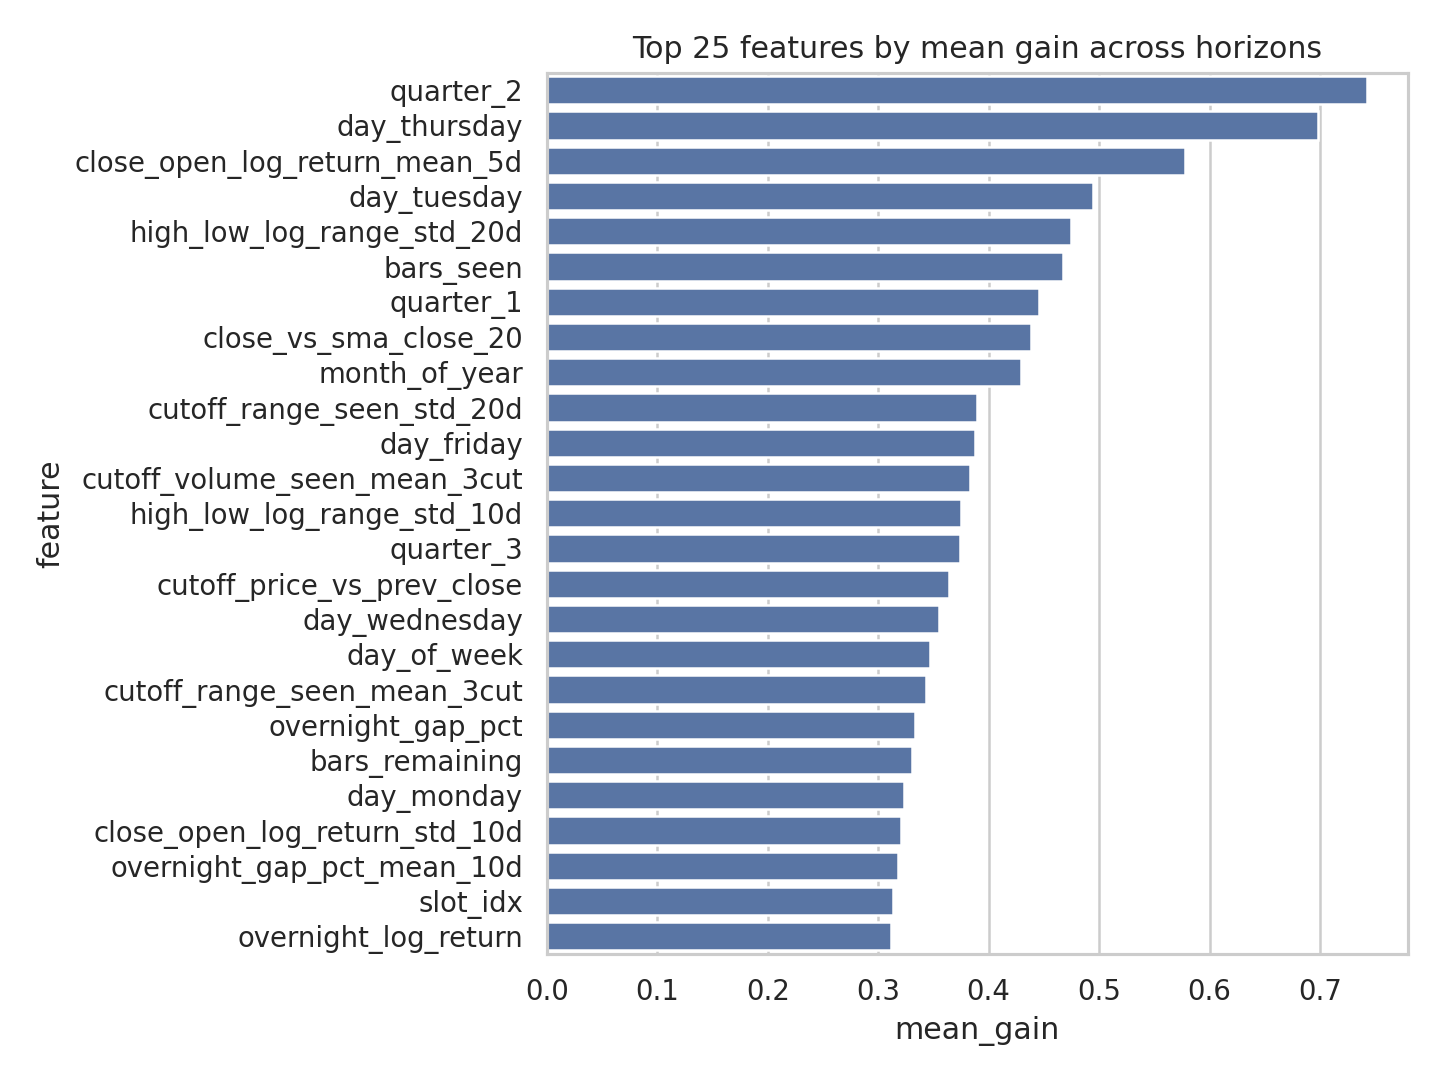
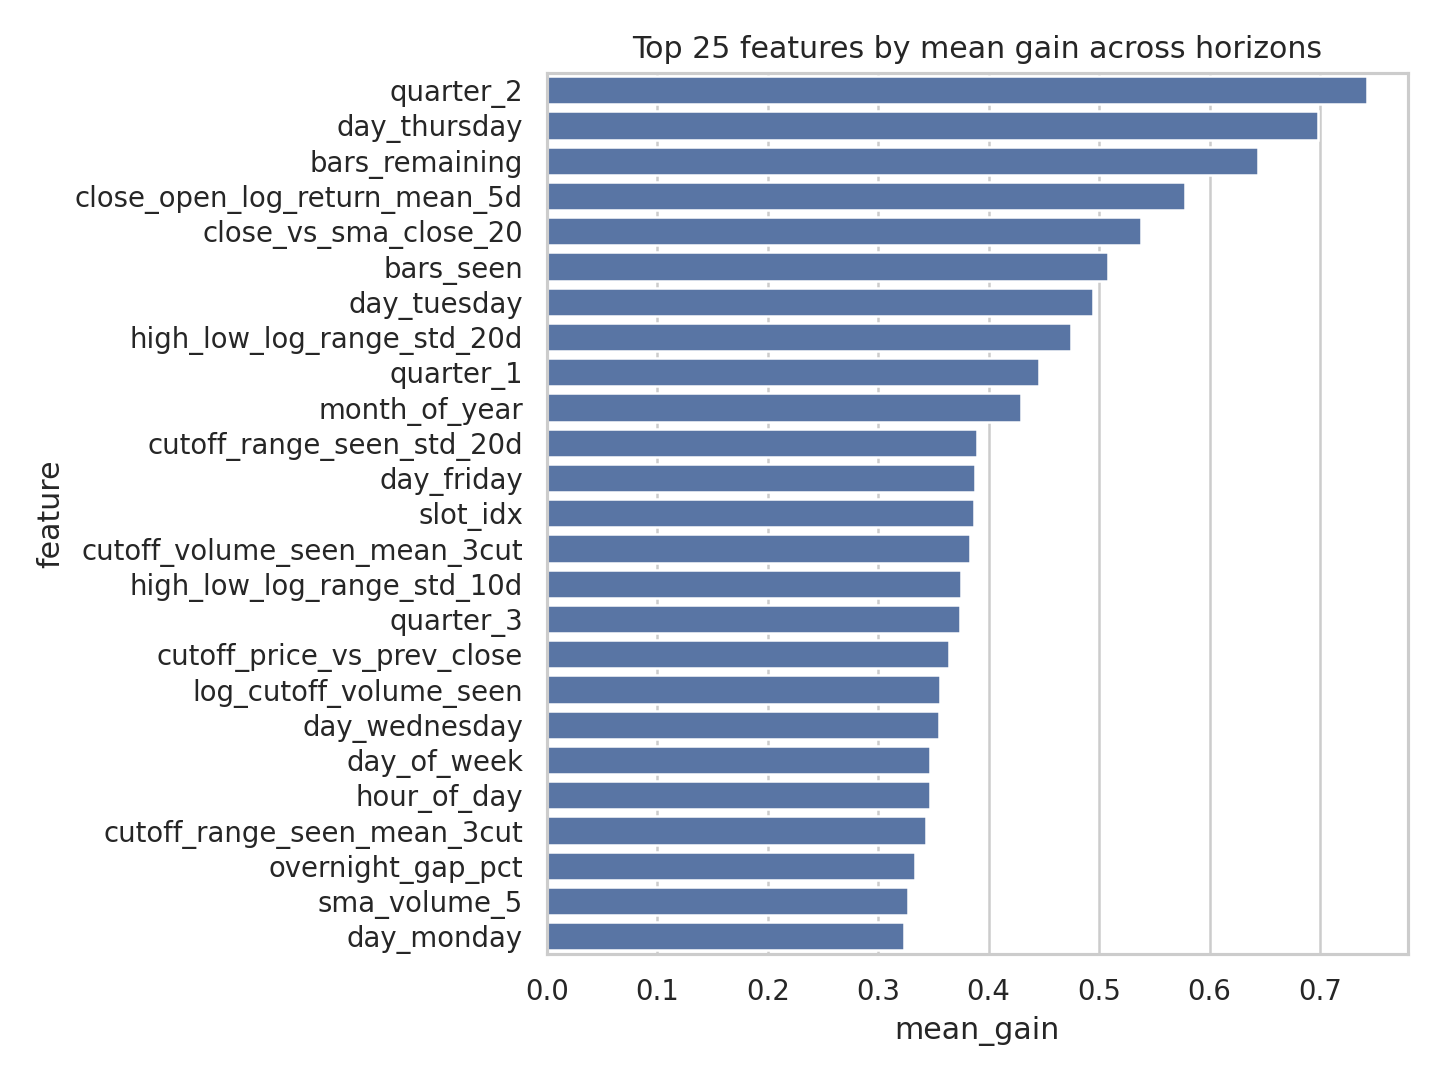
feat: update model metadata for base variant and enhance frontend prediction charts with detailed metadata annotations

diff --git a/services/frontend/app.py b/services/frontend/app.py
@@ -2,7 +2,8 @@ from __future__ import annotations
 
 import math
 import os
-from datetime import UTC, datetime
+import re
+from datetime import UTC, datetime, timedelta, timezone
 
 import pandas as pd
 import plotly.graph_objects as go
@@ -128,6 +129,48 @@ def ohlc_df(symbol: str, days: int) -> pd.DataFrame:
     return df.sort_values("date").reset_index(drop=True)
 
 
+def _prediction_meta(pred: dict) -> dict:
+    """
+    Parse a prediction response into human-readable label parts.
+
+    Returns a dict with:
+      cutoff     — "Apr 20"  (training data cutoff date)
+      trained_at — "10:45 PM PDT Apr 27"  (when base model was trained)
+      updated_at — "8:25 AM PDT"  (when warm refresh last ran, or trained_at for base)
+      version    — raw model_version string
+    """
+    version = pred.get("model_version", "")
+    cutoff = trained_at = updated_at = ""
+
+    # model_version format: "base_YYYYMMDD_YYYYMMDDTHHMMSSz"
+    m = re.match(r"[^_]+_(\d{8})_(\d{8}T\d{6}Z)", version)
+    if m:
+        try:
+            cutoff = datetime.strptime(m.group(1), "%Y%m%d").strftime("%b %-d, %Y")
+        except ValueError:
+            cutoff = m.group(1)
+        try:
+            ts_utc = datetime.strptime(m.group(2), "%Y%m%dT%H%M%SZ").replace(tzinfo=timezone.utc)
+            ts_pdt = ts_utc.astimezone(timezone(timedelta(hours=-7)))
+            trained_at = ts_pdt.strftime("%-I:%M %p PDT, %b %-d")
+        except ValueError:
+            trained_at = m.group(2)
+
+    # warm predictions may carry a refreshed_at timestamp
+    raw_refresh = pred.get("refreshed_at") or pred.get("warm_refreshed_at") or pred.get("as_of")
+    if raw_refresh:
+        try:
+            rt = datetime.fromisoformat(raw_refresh.replace("Z", "+00:00"))
+            rt_pdt = rt.astimezone(timezone(timedelta(hours=-7)))
+            updated_at = rt_pdt.strftime("%-I:%M %p PDT")
+        except Exception:
+            updated_at = raw_refresh[:16]
+    else:
+        updated_at = trained_at
+
+    return {"cutoff": cutoff, "trained_at": trained_at, "updated_at": updated_at, "version": version}
+
+
 # ── Chart builders ────────────────────────────────────────────────────────────
 
 def build_price_chart(df: pd.DataFrame, title: str, base_prediction: dict | None = None, warm_prediction: dict | None = None) -> go.Figure:
@@ -160,21 +203,31 @@ def build_price_chart(df: pd.DataFrame, title: str, base_prediction: dict | None
         path = base_prediction.get("path", [])
         bp_date = base_prediction.get("prediction_date", "")[:10]
         if path and bp_date:
+            meta = _prediction_meta(base_prediction)
+            trace_name = (
+                f"Base EOD Forecast  ·  trained thru {meta['cutoff']}"
+                f"  ·  model built {meta['trained_at']}"
+                f"  ·  fixed at market open"
+            )
             path_x = [f"{bp_date} {b['bar_time']}" for b in path]
             path_y = [b["pred_close"] for b in path]
             fig.add_trace(go.Scatter(
                 x=path_x, y=path_y,
-                mode="lines+markers", name="Base EOD Prediction",
+                mode="lines+markers", name=trace_name,
                 line={"color": "#f59e0b", "width": 2, "dash": "dot"},
                 marker={"size": 4, "color": "#f59e0b"},
             ))
             end_price = path_y[-1]
+            ret = base_prediction.get("predicted_full_day_return", 0.0)
+            direction = "▲" if base_prediction.get("predicted_direction") == "up" else "▼"
             fig.add_annotation(
                 x=path_x[-1], y=end_price,
-                text=f"Base EOD ${end_price:.2f}",
-                showarrow=True, arrowhead=2, ax=32, ay=-40,
-                bgcolor="rgba(245,158,11,0.12)", bordercolor="#f59e0b",
+                text=f"<b>Base EOD</b>  ${end_price:.2f}<br>"
+                     f"{direction} {ret:+.2f}%  ·  thru {meta['cutoff']}",
+                showarrow=True, arrowhead=2, ax=40, ay=-44,
+                bgcolor="rgba(245,158,11,0.13)", bordercolor="#f59e0b",
                 font={"size": 11, "color": "#92400e"},
+                align="left",
             )
 
     # Warm refresh prediction — blue dashed (updates every 15 min)
@@ -182,21 +235,31 @@ def build_price_chart(df: pd.DataFrame, title: str, base_prediction: dict | None
         path = warm_prediction.get("path", [])
         wp_date = warm_prediction.get("prediction_date", "")[:10]
         if path and wp_date:
+            meta = _prediction_meta(warm_prediction)
+            trace_name = (
+                f"Warm Intraday Forecast  ·  trained thru {meta['cutoff']}"
+                f"  ·  last refreshed {meta['updated_at']}"
+                f"  ·  updates every 15 min"
+            )
             path_x = [f"{wp_date} {b['bar_time']}" for b in path]
             path_y = [b["pred_close"] for b in path]
             fig.add_trace(go.Scatter(
                 x=path_x, y=path_y,
-                mode="lines+markers", name="Warm Refresh Prediction",
+                mode="lines+markers", name=trace_name,
                 line={"color": "#3b82f6", "width": 2, "dash": "dash"},
                 marker={"size": 4, "color": "#3b82f6"},
             ))
             end_price = path_y[-1]
+            ret = warm_prediction.get("predicted_full_day_return", 0.0)
+            direction = "▲" if warm_prediction.get("predicted_direction") == "up" else "▼"
             fig.add_annotation(
                 x=path_x[-1], y=end_price,
-                text=f"Warm ${end_price:.2f}",
-                showarrow=True, arrowhead=2, ax=32, ay=-20,
-                bgcolor="rgba(59,130,246,0.12)", bordercolor="#3b82f6",
+                text=f"<b>Warm Intraday</b>  ${end_price:.2f}<br>"
+                     f"{direction} {ret:+.2f}%  ·  refreshed {meta['updated_at']}",
+                showarrow=True, arrowhead=2, ax=40, ay=-22,
+                bgcolor="rgba(59,130,246,0.13)", bordercolor="#3b82f6",
                 font={"size": 11, "color": "#1e40af"},
+                align="left",
             )
 
     # Pin tick labels to first bar of each trading day — clean "Apr 7" style labels
@@ -414,21 +477,38 @@ def stocks_chart_fragment(symbol: str, days: int, detail: dict) -> None:
         pc1, pc2, pc3, pc4, pc5 = st.columns(5)
         pc1.metric("Current Price", f"${ref['current_price']:.2f}")
         if base_pred:
-            path = base_pred.get("path", [])
-            eod = path[-1]["pred_close"] if path else base_pred["current_price"]
-            full_ret = base_pred.get("predicted_full_day_return", 0.0)
+            path  = base_pred.get("path", [])
+            eod   = path[-1]["pred_close"] if path else base_pred["current_price"]
+            full_ret  = base_pred.get("predicted_full_day_return", 0.0)
             direction = base_pred.get("predicted_direction", "—")
-            chg = eod - ref["current_price"]
-            pc2.metric("Base EOD Target", f"${eod:.2f}",
-                       delta=f"{chg:+.2f} ({full_ret:+.2f}%)")
+            chg   = eod - ref["current_price"]
+            meta  = _prediction_meta(base_pred)
+            pc2.metric(
+                f"Base EOD · thru {meta['cutoff']}",
+                f"${eod:.2f}",
+                delta=f"{chg:+.2f} ({full_ret:+.2f}%)",
+                help=f"Morning base model trained on data through {meta['cutoff']}. "
+                     f"Built {meta['trained_at']}. Fixed at market open.",
+            )
+            pc3.metric("Direction (Base)", direction.upper(),
+                       help="Predicted close-to-close direction from base model")
         if warm_pred:
-            path = warm_pred.get("path", [])
-            eod = path[-1]["pred_close"] if path else warm_pred["current_price"]
+            path     = warm_pred.get("path", [])
+            eod      = path[-1]["pred_close"] if path else warm_pred["current_price"]
             full_ret = warm_pred.get("predicted_full_day_return", 0.0)
-            chg = eod - ref["current_price"]
-            pc4.metric("Warm Refresh Target", f"${eod:.2f}",
-                       delta=f"{chg:+.2f} ({full_ret:+.2f}%)")
-        pc5.metric("Model", (warm_pred or base_pred).get("model_version", "—"))
+            chg      = eod - ref["current_price"]
+            meta     = _prediction_meta(warm_pred)
+            pc4.metric(
+                f"Warm Intraday · {meta['updated_at']}",
+                f"${eod:.2f}",
+                delta=f"{chg:+.2f} ({full_ret:+.2f}%)",
+                help=f"Warm-refreshed model incorporating today's intraday bars. "
+                     f"Last refreshed {meta['updated_at']}. Updates every 15 min.",
+            )
+        active = warm_pred or base_pred
+        meta = _prediction_meta(active)
+        pc5.metric("Model Version", meta["version"] or "—",
+                   help=f"Training cutoff: {meta['cutoff']}  |  Built: {meta['trained_at']}")
         st.markdown("</div>", unsafe_allow_html=True)
 
     df = ohlc_df(symbol, days)
@@ -601,12 +681,25 @@ def render_stocks(stocks: list[dict], symbol: str, days: int) -> None:
 
     # Legend for prediction overlays
     st.markdown(
-        '<div style="display:flex;gap:20px;align-items:center;padding:6px 0 2px 0;font-size:0.82rem;color:#475569">'
-        '<span style="display:inline-block;width:28px;height:0;border-top:2px dotted #f59e0b;'
-        'vertical-align:middle;margin-right:5px"></span><span style="color:#92400e">Base EOD (static all day)</span>'
-        '&nbsp;&nbsp;&nbsp;'
-        '<span style="display:inline-block;width:28px;height:0;border-top:2px dashed #3b82f6;'
-        'vertical-align:middle;margin-right:5px"></span><span style="color:#1e40af">Warm Refresh (updates every 15 min)</span>'
+        '<div style="display:flex;flex-direction:column;gap:5px;padding:8px 12px;margin-bottom:4px;'
+        'background:#f8fafc;border:1px solid #e2e8f0;border-radius:8px;font-size:0.8rem;color:#475569">'
+
+        '<div style="display:flex;align-items:center;gap:10px">'
+        '<span style="display:inline-block;width:32px;height:0;border-top:2px dotted #f59e0b;flex-shrink:0"></span>'
+        '<span><strong style="color:#92400e">Base EOD Forecast</strong> — '
+        'trained on all data up to the prior session close · '
+        'generated once before market open · '
+        '<em>fixed all day, updates nightly</em></span>'
+        '</div>'
+
+        '<div style="display:flex;align-items:center;gap:10px">'
+        '<span style="display:inline-block;width:32px;height:0;border-top:2px dashed #3b82f6;flex-shrink:0"></span>'
+        '<span><strong style="color:#1e40af">Warm Intraday Forecast</strong> — '
+        'base model warm-refreshed with today\'s observed 15-min bars · '
+        'new trees added each window · '
+        '<em>updates every 15 min during market hours</em></span>'
+        '</div>'
+
         '</div>',
         unsafe_allow_html=True,
     )

diff --git a/airflow/airflow/dags/nibi_intraday_warmrefresh_dag.py b/airflow/airflow/dags/nibi_intraday_warmrefresh_dag.py
@@ -135,7 +135,10 @@ def _atomic_symlink(symlink: Path, target: Path) -> None:
     tmp = symlink.parent / (symlink.name + ".new")
     if tmp.exists() or tmp.is_symlink():
         tmp.unlink()
-    tmp.symlink_to(target.resolve())
+    # Use target.name (relative) so the symlink resolves correctly inside Docker,
+    # where the mount point differs from the host path. target.resolve() produces
+    # an absolute host path that is inaccessible inside the container.
+    tmp.symlink_to(target.name)
     tmp.rename(symlink)
 
 
@@ -275,15 +278,19 @@ def task_submit_warm_job(**ctx) -> None:
     from airflow.models import Variable
 
     sim_date    = ctx["ds"]
+    # execution_ts gives a unique key per 15-min slot (e.g. "2026-04-28T14:35:00+00:00")
+    execution_ts = ctx["ts_nodash"]
     remote_parq = ctx["ti"].xcom_pull(task_ids="sync_parquet_to_nibi", key="remote_parquet")
     warm_trees  = Variable.get("nibi_warm_trees", default_var="30")
 
-    job_record = REPO_ROOT / "logs" / f"nibi_warm_{sim_date}.json"
+    # Key job record by execution timestamp, not just date, so each 15-min slot
+    # submits its own Slurm job rather than reusing the first run's completed job.
+    job_record = REPO_ROOT / "logs" / f"nibi_warm_{execution_ts}.json"
     if job_record.exists():
         rec = json.loads(job_record.read_text())
         existing_id = rec.get("job_id")
-        if existing_id:
-            print(f"Warm job already submitted today: {existing_id} — reusing")
+        if existing_id and rec.get("status") != "completed":
+            print(f"Warm job already submitted for this slot: {existing_id} — reusing")
             ctx["ti"].xcom_push(key="job_id", value=existing_id)
             return
 

diff --git a/airflow/airflow/dags/nibi_daily_training_dag.py b/airflow/airflow/dags/nibi_daily_training_dag.py
@@ -464,12 +464,15 @@ def task_submit_job(**ctx):
     remote_parq  = ctx["ti"].xcom_pull(task_ids="sync_parquet_to_nibi", key="remote_parquet")
     job_record   = REPO_ROOT / "logs" / f"nibi_job_{sim_date}.json"
 
-    # If a job was already submitted today (e.g. DAG re-triggered after Task 8 failed),
+    # If a job was already submitted and is still in-flight (status != "completed"),
     # reuse the existing job_id rather than submitting a second job.
+    # Do NOT reuse a completed job: clean_nibi_run_root already wiped run_root,
+    # so reusing a completed ID would make the sensor return immediately and
+    # leave run_root empty, causing validate_artifacts to fail.
     if job_record.exists():
         rec = json.loads(job_record.read_text())
         existing_id = rec.get("job_id")
-        if existing_id:
+        if existing_id and rec.get("status") != "completed":
             print(f"Job already submitted today: {existing_id} — reusing (delete "
                   f"{job_record} to force re-submit)")
             ctx["ti"].xcom_push(key="job_id", value=existing_id)
